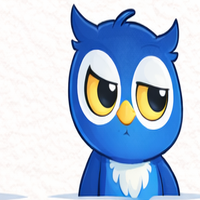
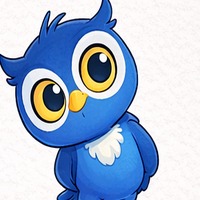
Fix closed-eye Milos, remove owl emoji, fix email, align colophon margins, transparent score Milo

diff --git a/index.html b/index.html
@@ -590,7 +590,7 @@
       height: 56px;
       object-fit: contain;
       flex-shrink: 0;
-      filter: drop-shadow(0 2px 6px rgba(0,180,216,0.2));
+      mix-blend-mode: multiply;
     }
     .milo-speech {
       background: #EFF6FF;
@@ -674,6 +674,13 @@
       margin-top: 48px;
       padding: 28px 0 40px;
       border-top: 1px solid rgba(27,42,74,0.10);
+      box-sizing: border-box;
+    }
+    .colophon-section,
+    .colophon-brand,
+    .colophon-text,
+    .colophon-divider {
+      width: 100%;
     }
     .colophon-brand {
       font-size: 12px;
@@ -780,7 +787,7 @@
     <hr class="colophon-divider" />
 
     <div class="colophon-text" style="font-size:10px;">
-      WealthWise Kids LLC &nbsp;·&nbsp; Atlanta, GA &nbsp;·&nbsp; michael@versassists.com &nbsp;·&nbsp; play.wealthwiselearning.com &nbsp;·&nbsp; Platform v1.0 &nbsp;·&nbsp; Pilot Release — Not for Public Distribution
+      WealthWise Kids LLC &nbsp;·&nbsp; Atlanta, GA &nbsp;·&nbsp; info@wealthwisekids.org &nbsp;·&nbsp; play.wealthwiselearning.com &nbsp;·&nbsp; Platform v1.0 &nbsp;·&nbsp; Pilot Release — Not for Public Distribution
     </div>
   </footer>
 
@@ -1306,7 +1313,7 @@ function renderScore() {
   app.innerHTML = `
     <div class="card score-screen">
       <div style="font-size:12px;letter-spacing:2px;text-transform:uppercase;color:var(--cyan);font-weight:700;margin-bottom:8px;">Your FLIQ Profile</div>
-      <img src="./milo-proud.png" style="width:88px;margin:8px auto;display:block;animation:starPop 0.5s ease both;" alt="Milo proud" />
+      <img src="./milo.png" style="width:96px;margin:8px auto 0;display:block;animation:starPop 0.5s ease both;filter:drop-shadow(0 2px 8px rgba(0,180,216,0.25));" alt="Milo" />
       <div class="profile-badge">${badge}</div>
       <div class="profile-label">${p.profile_label}</div>
       <div class="profile-sub">${profileDescriptions[p.profile_label] || 'Your behavioral intelligence profile has been recorded.'}</div>
@@ -1444,7 +1451,7 @@ async function makeChoice(choiceIndex) {
   const miloData = {
     positive: {
       img: './milo-proud.png',
-      lines: ["Smart move! 🦉", "Your money brain is ON! 🧠", "That's how you do it! 💪", "Yes! Great thinking! ⭐"],
+      lines: ["Smart move!", "Your money brain is ON! 🧠", "That's how you do it! 💪", "Yes! Great thinking! ⭐"],
     },
     negative: {
       img: './milo-concerned.png',
@@ -1452,7 +1459,7 @@ async function makeChoice(choiceIndex) {
     },
     neutral: {
       img: './milo-curious.png',
-      lines: ["Interesting choice... 🤔", "Let's see how this plays out!", "Hmm, I wonder... 🦉"],
+      lines: ["Interesting choice... 🤔", "Let's see how this plays out!", "Hmm, I wonder..."],
     },
   };
   const md = miloData[outcome?.type] || miloData.neutral;

diff --git a/facilitator.html b/facilitator.html
@@ -809,7 +809,12 @@
       border-top: 1px solid var(--border);
       width: 100%;
       max-width: 720px;
+      box-sizing: border-box;
     }
+    .colophon-section,
+    .colophon-brand,
+    .colophon-text,
+    .colophon-divider { width: 100%; }
     .colophon-brand {
       font-size: 11px;
       font-weight: 800;
@@ -1152,7 +1157,7 @@
     <hr class="colophon-divider" />
 
     <div class="colophon-text" style="font-size:10px;">
-      WealthWise Kids LLC &nbsp;·&nbsp; Atlanta, GA &nbsp;·&nbsp; michael@versassists.com &nbsp;·&nbsp; play.wealthwiselearning.com &nbsp;·&nbsp; Facilitator Dashboard v1.0 &nbsp;·&nbsp; Pilot Release — Confidential &amp; Not for Public Distribution
+      WealthWise Kids LLC &nbsp;·&nbsp; Atlanta, GA &nbsp;·&nbsp; info@wealthwisekids.org &nbsp;·&nbsp; play.wealthwiselearning.com &nbsp;·&nbsp; Facilitator Dashboard v1.0 &nbsp;·&nbsp; Pilot Release — Confidential &amp; Not for Public Distribution
     </div>
   </div>
 
